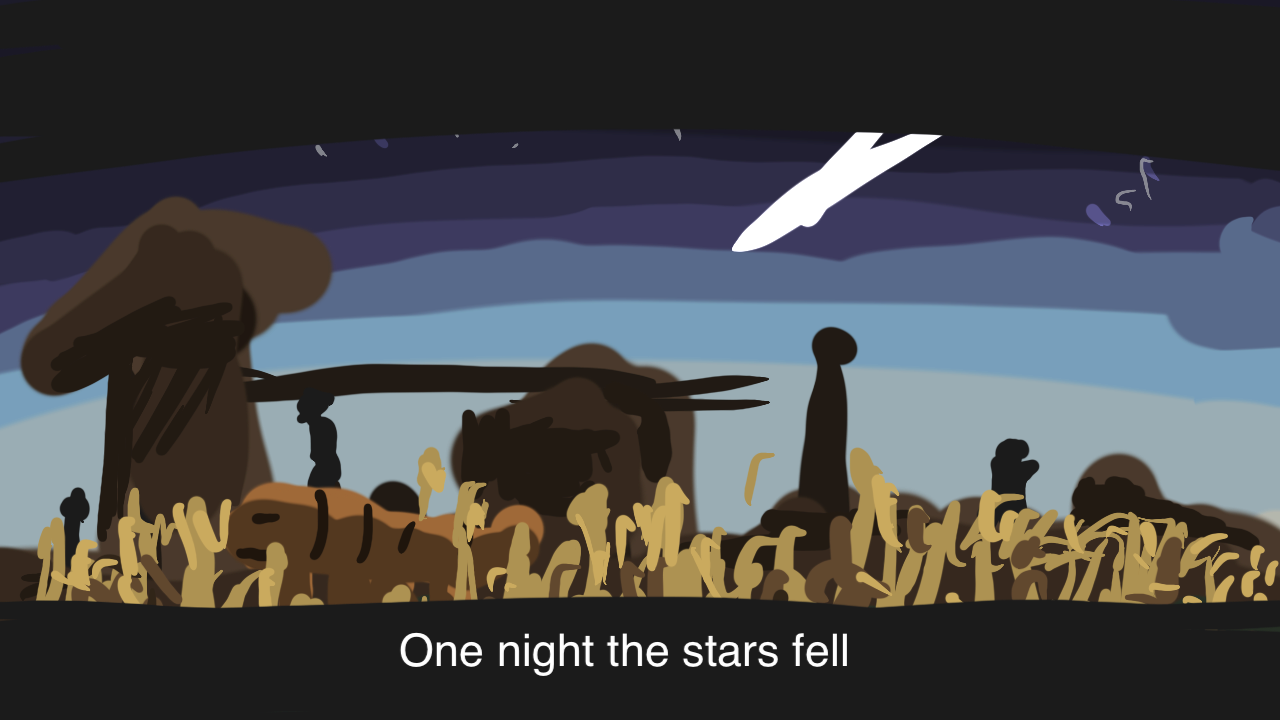
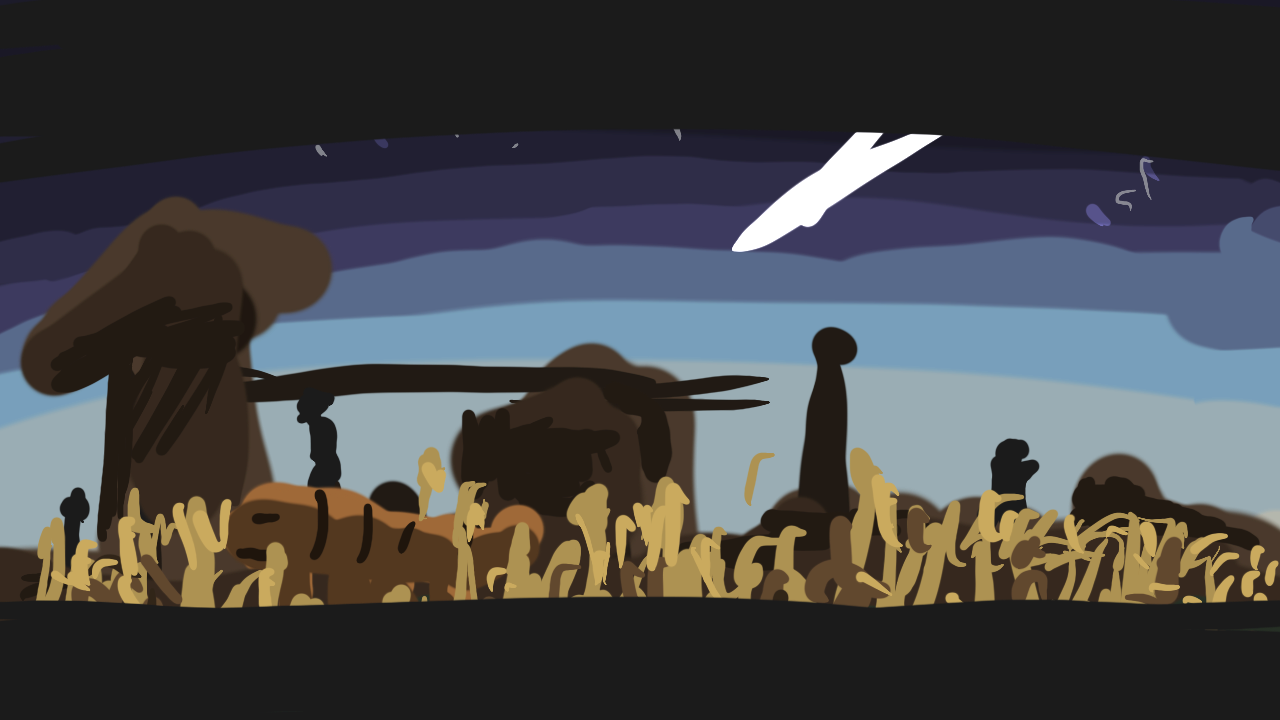
buggy slidshow title screen -wj

Changed region(s): [[0.3125, 0.8556, 0.6875, 0.9472]]

diff --git a/animation/slideshow.py b/animation/slideshow.py
@@ -1,6 +1,5 @@
 import pygame
-from config import *
-from utility import *
+from animation.utility import *
 
 class Slideshow(object):
     """ for some reason loading in an 
@@ -15,15 +14,15 @@ class Slideshow(object):
         self.stop = False
         self.kill_on_release = False
         #images
-        self.blank_image = pygame.Surface((800, 600))
-        self.blank_image.fill(BLACK)
-        self.bg_image = pygame.Surface((800, 600))
-        self.bg_image.fill(WHITE)
+        self.blank_image = pygame.Surface((1280, 720))
+        self.blank_image.fill('black')
+        self.bg_image = pygame.Surface((1280, 720))
+        self.bg_image.fill('white')
         self.images = images
         self.index = 0
         self.image = self.images[self.index]
         self.rect = self.image.get_rect() #assume all images have same dimensions so same rect
-        self.rect.center = WIN_CENTER
+        self.rect.center = (1280/2,720/2)
 
         #bg image to fix flashing glitch
         self.bg_images = bg_images
@@ -38,7 +37,7 @@ class Slideshow(object):
         # self.most_bottom_image = self.images[self.index+1] #prevent glitchy flashing effect DIDNT WORK
         #crossfade
         self.wait_seconds = 3
-        self.wait_clock_cycles = FPS * self.wait_seconds
+        self.wait_clock_cycles = 60 * self.wait_seconds
         self.clock_cycles = 0
         self.fade_speed = 3
         self.fade_done = False
@@ -49,7 +48,7 @@ class Slideshow(object):
         #for glitch
         self.flip = False
         #text
-        self.currentText = Text(texts[self.index], (self.rect.center[0], self.rect.center[1]+300), 32, WHITE, True)
+        self.currentText = Text(texts[self.index], (self.rect.center[0], self.rect.center[1]+300), 32, 'white', True)
 
     def events(self):
         keys = pygame.key.get_pressed()
@@ -79,7 +78,8 @@ class Slideshow(object):
         #then, update first image to second image
         #update original second image to next image
         if self.fade_done and self.index < len(self.images)-1: 
-            self.image.set_alpha(self.alph) 
+            self.image.set_alpha(0) #first image set to 0
+            self.bg_image.set_alpha(self.max_alph) #make sure the background is ok
             self.flip = True
             self.index += 1
             # print(self.index)
@@ -103,9 +103,9 @@ class Slideshow(object):
 
         # self.screen.blit(self.blank_image,self.rect)
     def draw(self):
-        self.screen.fill(BLACK)
+        self.screen.fill('black')
         if self.flip:
-            # print('me too')
+            print('me too')
             self.screen.blit(self.image,self.rect)
             self.screen.blit(self.bg_image,self.rect) #GLITCH!!!!!!!!!!!!! 
             self.flip = False

diff --git a/title_class.py b/title_class.py
@@ -1,9 +1,33 @@
 import pygame
 from button import Button
+from utils import load_image
+from animation.slideshow import Slideshow
+
 class Title:
     def __init__(self, game, screen):
+        self.images = (
+            load_image('intro/1.0.png'),
+            load_image('intro/1.1.png'),
+            load_image('intro/2.png'),
+            load_image('intro/3.png'),
+            load_image('intro/4.png'),
+            load_image('intro/5.png')
+        )
+        self.texts = (
+            'One night the stars fell',
+            'The fallen stars brought power',
+            'Dark matter was found',
+            'Discovered by rats',
+            'Darkness filled the little ones'
+            ,'New disease is born'
+        )
+        
+        self.image = self.images[0]
         self.screen = screen
         self.game = game
+
+        self.bg = Slideshow(self.texts, self.images, self.images, self.screen)
+
         self.start_button = Button(1280/2, (720/4)*2, 1280/6, 720/6, 'white', 'black', 'start', int(720/6))
         self.quit_button = Button(1280/2, (720/4)*3, 1280/6, 720/6, 'white', 'black', 'quit', int(720/6))
     def run(self, mouse_pos):
@@ -19,7 +43,9 @@ class Title:
                 elif not self.quit_button.update(self.screen, mouse_pos):
                     pygame.quit()
                     quit()  
-
+        self.screen.blit(self.images[0], (0,0))
+        self.screen.blit(self.image, (0,0))
+        self.bg.update()
         self.start_button.render(self.screen)
         self.quit_button.render(self.screen)
             

diff --git a/animation/utility.py b/animation/utility.py
@@ -18,14 +18,15 @@ class Spritesheet:
     def get_sprite(self, x, y, width, height):
         sprite = pygame.Surface([width,height])
         sprite.blit(self.sheet, (0,0), (x, y, width, height))
-        sprite.set_colorkey(BLACK)
+        sprite.set_colorkey('black')
         return sprite
     
 
 class Text:
     def __init__(self,text,pos,size,color,do_bg):
         self.do_bg = do_bg
-        self.myFont = pygame.font.Font(FONT_PATH, size)
+        # self.myFont = pygame.font.Font(FONT_PATH, size)
+        self.myFont = pygame.font.SysFont(None, size)
         self.pos = pos
         self.size = size
         self.text = text
@@ -36,14 +37,14 @@ class Text:
         #background
         if self.do_bg:
             self.bg= pygame.Surface(self.rect.size)
-            self.bg.fill(BLACK)
+            self.bg.fill('black')
     def update(self, text):
         self.label = self.myFont.render(text, self.size, self.color)
         self.rect = self.label.get_rect()
         self.rect.center = self.pos
         self.bg= pygame.Surface(self.rect.size)
         if self.do_bg:
-            self.bg.fill(BLACK)
+            self.bg.fill('black')
     def draw(self,screen):
         if self.do_bg:
             screen.blit(self.bg, self.rect)

diff --git a/utils.py b/utils.py
@@ -12,7 +12,8 @@ def load_image(path):
 def load_images(path):
     images = []
     for img_name in sorted(os.listdir(BASE_IMG_PATH + path)):
-        images.append(load_image(path + '/' + img_name))
+        if img_name != '.DS_Store':
+            images.append(load_image(path + '/' + img_name))
     return images
 
 class Spritesheet:
